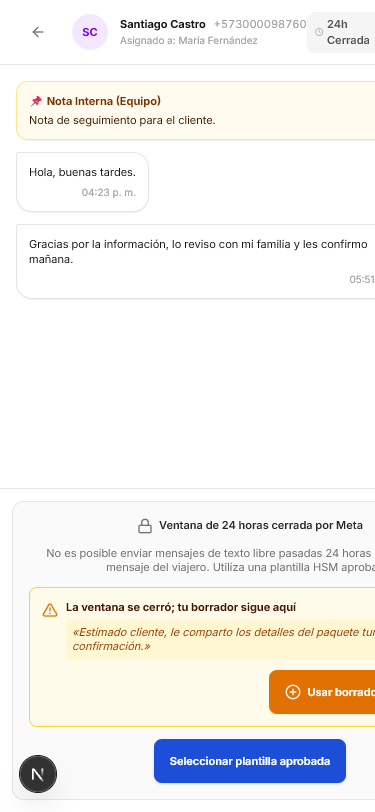
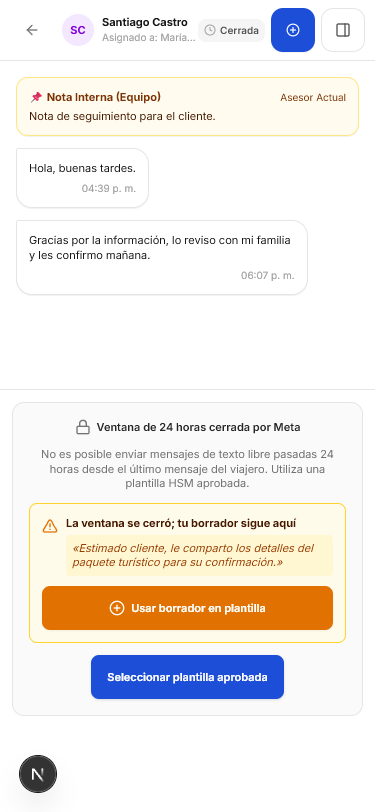
feat(web): subsanacion de desbordes horizontales a 375px y recaptura de evidencias (0c.33)

diff --git a/apps/web/src/app/bandeja/[id]/page.tsx b/apps/web/src/app/bandeja/[id]/page.tsx
@@ -410,12 +410,12 @@ export default function BandejaConversacionPage() {
       {/* Columna Central: Conversación (Chat) */}
       <div className="flex min-w-0 flex-1 flex-col overflow-hidden bg-white dark:bg-neutral-900">
         {/* Cabecera de la conversación (Tarea 0b.6) */}
-        <header className="flex shrink-0 items-center justify-between border-b border-neutral-200 bg-white px-4 py-2.5 dark:border-neutral-800 dark:bg-neutral-900">
-          <div className="flex items-center gap-3">
+        <header className="flex min-w-0 shrink-0 items-center justify-between border-b border-neutral-200 bg-white px-2.5 py-2 sm:px-4 sm:py-2.5 dark:border-neutral-800 dark:bg-neutral-900">
+          <div className="flex min-w-0 flex-1 items-center gap-2">
             {/* Botón volver a lista (móvil) */}
             <Link
               href="/bandeja"
-              className="flex min-h-[44px] min-w-[44px] items-center justify-center rounded-xl text-neutral-500 hover:bg-neutral-100 md:hidden dark:hover:bg-neutral-800"
+              className="flex h-11 min-h-[44px] w-11 min-w-[44px] shrink-0 items-center justify-center rounded-xl text-neutral-500 hover:bg-neutral-100 md:hidden dark:hover:bg-neutral-800"
               title="Volver a lista de conversaciones"
             >
               <ArrowLeft className="h-4 w-4" />
@@ -423,50 +423,52 @@ export default function BandejaConversacionPage() {
 
             {/* Avatar determinista */}
             <div
-              className={`flex h-9 w-9 shrink-0 items-center justify-center rounded-full text-xs font-bold ${avatarColores.bg} ${avatarColores.text}`}
+              className={`flex h-8 w-8 shrink-0 items-center justify-center rounded-full text-xs font-bold sm:h-9 sm:w-9 ${avatarColores.bg} ${avatarColores.text}`}
             >
               {iniciales}
             </div>
 
-            <div className="min-w-0">
-              <div className="flex items-center gap-2">
+            <div className="min-w-0 flex-1">
+              <div className="flex items-center gap-1.5">
                 <h2 className="truncate text-xs font-bold text-neutral-900 dark:text-neutral-100">
                   {detalle.contactoNombre || detalle.contactoTelefono}
                 </h2>
-                <span className="cifra text-[11px] text-neutral-400">
+                <span className="cifra hidden text-[11px] text-neutral-400 sm:inline">
                   {detalle.contactoTelefono}
                 </span>
               </div>
-              <p className="text-[10px] text-neutral-400">
+              <p className="truncate text-[10px] text-neutral-400">
                 {detalle.asignadoANombre ? `Asignado a: ${detalle.asignadoANombre}` : 'Sin asignar'}
               </p>
             </div>
           </div>
 
           {/* Estado de 24h + SLA + Acción Primaria «Nueva Cotización» */}
-          <div className="flex items-center gap-2">
+          <div className="flex shrink-0 items-center gap-1.5">
             {/* Cuenta atrás viva de 24h */}
             {tiempoVentana.cerrada ? (
-              <span className="flex items-center gap-1 rounded-md bg-neutral-100 px-2 py-1 text-[11px] font-semibold text-neutral-600 dark:bg-neutral-800 dark:text-neutral-400">
+              <span className="flex shrink-0 items-center gap-1 rounded-md bg-neutral-100 px-1.5 py-1 text-[10px] font-semibold text-neutral-600 sm:text-[11px] dark:bg-neutral-800 dark:text-neutral-400">
                 <Clock className="h-3 w-3 text-neutral-400" />
-                <span>24h Cerrada</span>
+                <span className="hidden sm:inline">24h </span>
+                <span>Cerrada</span>
               </span>
             ) : (
               <span
-                className={`flex items-center gap-1 rounded-md px-2 py-1 text-[11px] font-semibold ${
+                className={`flex shrink-0 items-center gap-1 rounded-md px-1.5 py-1 text-[10px] font-semibold sm:text-[11px] ${
                   tiempoVentana.minutos <= 120
                     ? 'border border-amber-200 bg-amber-50 text-amber-800 dark:border-amber-900 dark:bg-amber-950/40 dark:text-amber-300'
                     : 'bg-ok-50 text-ok-800 border-ok-200 dark:bg-ok-950/40 dark:text-ok-300 dark:border-ok-900 border'
                 }`}
               >
                 <Clock className="h-3 w-3" />
-                <span>Ventana 24h · {tiempoVentana.texto}</span>
+                <span className="hidden sm:inline">Ventana 24h · </span>
+                <span>{tiempoVentana.texto}</span>
               </span>
             )}
 
-            {/* SLA Badge */}
+            {/* SLA Badge (visible a partir de sm) */}
             {detalle.slaVenceEn && (
-              <span className="bg-alerta-50 text-alerta-700 dark:bg-alerta-950/40 dark:text-alerta-300 rounded-md px-2 py-1 text-[11px] font-semibold">
+              <span className="bg-alerta-50 text-alerta-700 dark:bg-alerta-950/40 dark:text-alerta-300 hidden shrink-0 rounded-md px-2 py-1 text-[11px] font-semibold sm:inline-flex">
                 SLA Activo
               </span>
             )}
@@ -474,7 +476,7 @@ export default function BandejaConversacionPage() {
             {/* Acción Primaria Prominente: Nueva Cotización */}
             <Link
               href={`/cotizador?conversacion=${id}&contactoId=${detalle.contactoId}`}
-              className="bg-acento-700 hover:bg-acento-800 flex min-h-[44px] min-w-[44px] items-center justify-center gap-1.5 rounded-xl px-3.5 py-2 text-xs font-semibold text-white shadow-2xs"
+              className="bg-acento-700 hover:bg-acento-800 flex min-h-[44px] min-w-[44px] shrink-0 items-center justify-center gap-1.5 rounded-xl px-2.5 py-2 text-xs font-semibold text-white shadow-2xs sm:px-3.5"
             >
               <PlusCircle className="h-3.5 w-3.5" />
               <span className="hidden sm:inline">Nueva cotización</span>
@@ -484,7 +486,7 @@ export default function BandejaConversacionPage() {
             <button
               type="button"
               onClick={() => setMostrarFichaLateral((p) => !p)}
-              className="flex h-8 w-8 items-center justify-center rounded-lg border border-neutral-200 text-neutral-600 hover:bg-neutral-100 xl:hidden dark:border-neutral-700 dark:text-neutral-300 dark:hover:bg-neutral-800"
+              className="flex h-11 min-h-[44px] w-11 min-w-[44px] shrink-0 items-center justify-center rounded-xl border border-neutral-200 text-neutral-600 hover:bg-neutral-100 xl:hidden dark:border-neutral-700 dark:text-neutral-300 dark:hover:bg-neutral-800"
               title="Ver ficha del viajero"
             >
               <PanelRight className="h-4 w-4" />
@@ -642,7 +644,7 @@ export default function BandejaConversacionPage() {
         </main>
 
         {/* Pie de redacción */}
-        <footer className="shrink-0 border-t border-neutral-200 bg-white p-3 dark:border-neutral-800 dark:bg-neutral-900">
+        <footer className="min-w-0 shrink-0 border-t border-neutral-200 bg-white p-3 pb-24 md:pb-3 dark:border-neutral-800 dark:bg-neutral-900">
           {!detalle.ventana.abierta || tiempoVentana.cerrada ? (
             <div className="space-y-3 rounded-xl border border-neutral-200 bg-neutral-50 p-4 text-xs dark:border-neutral-800 dark:bg-neutral-800/40">
               <div className="flex items-center justify-center space-x-1.5 font-semibold text-neutral-800 dark:text-neutral-200">
@@ -671,11 +673,11 @@ export default function BandejaConversacionPage() {
                       </p>
                     </div>
                   </div>
-                  <div className="mt-2.5 flex justify-end">
+                  <div className="mt-2.5 flex w-full sm:justify-end">
                     <button
                       type="button"
                       onClick={() => setModalPlantillasAbierto(true)}
-                      className="flex min-h-[44px] min-w-[44px] items-center justify-center gap-1.5 rounded-lg bg-amber-600 px-4 py-2 font-semibold text-white shadow-xs transition-colors hover:bg-amber-700"
+                      className="flex min-h-[44px] w-full min-w-[44px] items-center justify-center gap-1.5 rounded-lg bg-amber-600 px-3 py-2 text-center text-xs font-semibold text-white shadow-xs transition-colors hover:bg-amber-700 sm:w-auto"
                     >
                       <PlusCircle className="h-4 w-4" />
                       Usar borrador en plantilla

diff --git a/apps/web/src/components/catalogo/tarjeta-salida-publicada.tsx b/apps/web/src/components/catalogo/tarjeta-salida-publicada.tsx
@@ -26,11 +26,11 @@ export function TarjetaSalidaPublicada({ salida }: TarjetaSalidaPublicadaProps) 
   const condicionDesde = formatearCondicionDesde(salida);
 
   return (
-    <article className="flex flex-col justify-between overflow-hidden rounded-xl border border-neutral-200 bg-white shadow-xs transition-all hover:border-neutral-300 hover:shadow-md dark:border-neutral-800 dark:bg-neutral-900 dark:hover:border-neutral-700">
+    <article className="flex w-full min-w-0 flex-col justify-between overflow-hidden rounded-xl border border-neutral-200 bg-white shadow-xs transition-all hover:border-neutral-300 hover:shadow-md dark:border-neutral-800 dark:bg-neutral-900 dark:hover:border-neutral-700">
       <div>
         {/* Cabecera de la tarjeta con Fecha y Tipo */}
-        <div className="border-b border-neutral-100 bg-neutral-50/80 p-4 dark:border-neutral-800/80 dark:bg-neutral-800/40">
-          <div className="flex items-center justify-between gap-2">
+        <div className="border-b border-neutral-100 bg-neutral-50/80 p-3.5 sm:p-4 dark:border-neutral-800/80 dark:bg-neutral-800/40">
+          <div className="flex flex-wrap items-center justify-between gap-2">
             <span className="bg-acento-50 text-acento-700 dark:bg-acento-950/60 dark:text-acento-300 flex items-center gap-1.5 rounded-full px-2.5 py-1 text-xs font-semibold">
               <Calendar className="h-3.5 w-3.5" />
               <span className="capitalize">{fechaTexto}</span>
@@ -68,8 +68,8 @@ export function TarjetaSalidaPublicada({ salida }: TarjetaSalidaPublicadaProps) 
         </div>
 
         {/* Cuerpo informativo */}
-        <div className="space-y-2.5 p-4 text-xs text-neutral-600 dark:text-neutral-300">
-          <div className="flex items-center justify-between border-b border-neutral-100 pb-2 dark:border-neutral-800">
+        <div className="space-y-2.5 p-3.5 text-xs text-neutral-600 sm:p-4 dark:text-neutral-300">
+          <div className="flex flex-wrap items-center justify-between gap-1 border-b border-neutral-100 pb-2 dark:border-neutral-800">
             <span className="text-neutral-400">Salida:</span>
             <span className="font-semibold text-neutral-800 dark:text-neutral-200">
               Fecha fija confirmada ({salida.fecha})
@@ -77,7 +77,7 @@ export function TarjetaSalidaPublicada({ salida }: TarjetaSalidaPublicadaProps) 
           </div>
 
           {salida.cupoTotal !== null ? (
-            <div className="flex items-center justify-between">
+            <div className="flex flex-wrap items-center justify-between gap-1">
               <span className="text-neutral-400">Cupo total:</span>
               <span className="font-semibold text-neutral-800 dark:text-neutral-200">
                 {salida.cupoTotal} sillas
@@ -93,8 +93,8 @@ export function TarjetaSalidaPublicada({ salida }: TarjetaSalidaPublicadaProps) 
       </div>
 
       {/* Pie de tarjeta con Tarifa Desde y Botón Cotizar */}
-      <div className="border-t border-neutral-100 bg-neutral-50/50 p-4 dark:border-neutral-800/80 dark:bg-neutral-800/20">
-        <div className="mb-3 flex items-baseline justify-between">
+      <div className="border-t border-neutral-100 bg-neutral-50/50 p-3.5 sm:p-4 dark:border-neutral-800/80 dark:bg-neutral-800/20">
+        <div className="mb-3 flex flex-wrap items-baseline justify-between gap-1">
           <span className="text-xs text-neutral-500 dark:text-neutral-400">Tarifa desde:</span>
           <div className="text-right">
             <span className="cifra text-lg font-extrabold text-neutral-900 dark:text-white">

diff --git a/apps/web/src/app/pipeline/page.tsx b/apps/web/src/app/pipeline/page.tsx
@@ -187,7 +187,7 @@ export default function PipelinePage() {
       {/* Contenedor Principal del Pipeline */}
       <main className="flex flex-1 flex-col overflow-hidden pb-14 md:pb-0">
         {/* Cabecera del Pipeline */}
-        <header className="border-b border-neutral-200 bg-white px-6 py-4 shadow-2xs dark:border-neutral-800 dark:bg-neutral-900">
+        <header className="min-w-0 border-b border-neutral-200 bg-white px-3.5 py-3 shadow-2xs sm:px-6 sm:py-4 dark:border-neutral-800 dark:bg-neutral-900">
           <div className="flex flex-wrap items-center justify-between gap-4">
             <div>
               <div className="flex items-center space-x-2">
@@ -246,9 +246,9 @@ export default function PipelinePage() {
 
           {/* Barra de Filtros y Búsqueda */}
           <div className="mt-4 flex flex-wrap items-center justify-between gap-3 border-t border-neutral-100 pt-3 dark:border-neutral-800/70">
-            <div className="flex flex-1 items-center space-x-3">
+            <div className="flex w-full min-w-0 flex-col gap-2 sm:flex-row sm:items-center sm:space-x-3">
               {/* Búsqueda */}
-              <div className="relative max-w-sm flex-1">
+              <div className="relative w-full sm:max-w-sm sm:flex-1">
                 <Search className="absolute top-2.5 left-3 h-3.5 w-3.5 text-neutral-400" />
                 <input
                   type="text"
@@ -260,12 +260,12 @@ export default function PipelinePage() {
               </div>
 
               {/* Selector de Asesor */}
-              <div className="flex items-center space-x-1.5 text-xs text-neutral-500 dark:text-neutral-400">
+              <div className="flex w-full items-center space-x-1.5 text-xs text-neutral-500 sm:w-auto dark:text-neutral-400">
                 <Filter className="h-3.5 w-3.5" />
                 <select
                   value={filtroAsesor}
                   onChange={(e) => setFiltroAsesor(e.target.value)}
-                  className="focus:border-acento-500 min-h-[44px] rounded-xl border border-neutral-200 bg-neutral-50 px-3 py-2.5 text-xs text-neutral-700 focus:outline-hidden dark:border-neutral-800 dark:bg-neutral-800 dark:text-neutral-200"
+                  className="focus:border-acento-500 min-h-[44px] w-full rounded-xl border border-neutral-200 bg-neutral-50 px-3 py-2.5 text-xs text-neutral-700 focus:outline-hidden sm:w-auto dark:border-neutral-800 dark:bg-neutral-800 dark:text-neutral-200"
                 >
                   <option value="todos">Todos los asesores</option>
                   <option value="Carlos Asesor">Carlos Asesor</option>

diff --git a/apps/web/src/app/catalogo/page.tsx b/apps/web/src/app/catalogo/page.tsx
@@ -108,16 +108,16 @@ export default function CatalogoPage() {
       <BarraModulos />
 
       {/* 2. Área Principal */}
-      <main className="flex flex-1 flex-col overflow-y-auto pb-14 md:pb-0">
+      <main className="flex min-w-0 flex-1 flex-col overflow-y-auto pb-24 md:pb-0">
         {/* Cabecera */}
-        <header className="border-b border-neutral-200 bg-white px-6 py-5 dark:border-neutral-800 dark:bg-neutral-900">
+        <header className="border-b border-neutral-200 bg-white px-3.5 py-3.5 sm:px-6 sm:py-5 dark:border-neutral-800 dark:bg-neutral-900">
           <div className="flex flex-col gap-4 sm:flex-row sm:items-center sm:justify-between">
             <div>
-              <div className="flex items-center gap-2">
+              <div className="flex flex-wrap items-center gap-2">
                 <span className="bg-acento-100 text-acento-800 dark:bg-acento-950 dark:text-acento-300 rounded-lg p-1.5">
                   <Package className="h-5 w-5" />
                 </span>
-                <h1 className="text-xl font-bold text-neutral-900 dark:text-white">
+                <h1 className="text-base font-bold break-words text-neutral-900 sm:text-xl dark:text-white">
                   {usarReal && !errorTenant
                     ? 'Salidas y Catálogo de Tarifas'
                     : 'Catálogo de Paquetes y Tarifarios'}
@@ -209,7 +209,7 @@ export default function CatalogoPage() {
         </header>
 
         {/* Contenido */}
-        <section className="flex-1 p-6">
+        <section className="min-w-0 flex-1 p-3.5 pb-24 sm:p-6 md:pb-6">
           {/* Error de configuración de tenant o red en modo API real */}
           {usarReal && errorTenant && (
             <div className="mb-6">

diff --git a/apps/web/src/app/cotizador/page.tsx b/apps/web/src/app/cotizador/page.tsx
@@ -323,8 +323,8 @@ function ContenidoCotizador() {
     <div className="flex h-screen w-full bg-neutral-50 dark:bg-neutral-950">
       <BarraModulos />
 
-      <main className="flex-1 overflow-y-auto">
-        <div className="mx-auto max-w-7xl space-y-6 p-4 sm:p-6 lg:p-8">
+      <main className="min-w-0 flex-1 overflow-y-auto pb-24 md:pb-0">
+        <div className="mx-auto max-w-7xl min-w-0 space-y-6 p-3.5 pb-28 sm:p-6 md:pb-8 lg:p-8">
           {/* Cabecera de Página */}
           <div className="flex flex-col gap-4 sm:flex-row sm:items-center sm:justify-between">
             <div className="flex items-center gap-3">
@@ -360,7 +360,7 @@ function ContenidoCotizador() {
           <div className="grid grid-cols-1 gap-6 lg:grid-cols-12">
             {/* Sidebar de Parámetros (4 col) */}
             <aside className="lg:col-span-4">
-              <div className="space-y-4 rounded-2xl border border-neutral-200 bg-white p-5 shadow-xs dark:border-neutral-800 dark:bg-neutral-900">
+              <div className="min-w-0 space-y-4 rounded-2xl border border-neutral-200 bg-white p-3.5 shadow-xs sm:p-5 dark:border-neutral-800 dark:bg-neutral-900">
                 <h2 className="text-xs font-bold tracking-wider text-neutral-500 uppercase">
                   Parámetros de Cotización
                 </h2>

diff --git a/traspaso/ENTREGA.md b/traspaso/ENTREGA.md
@@ -247,3 +247,67 @@
 ## Decisiones que el encargo no especificaba
 
 - **Aislamiento del desplazamiento horizontal en Kanban:** Para el tablero Kanban a 375 px, se garantizó que el desplazamiento horizontal de las columnas quede estrictamente encapsulado en su contenedor interior (`overflow-x-auto`), preservando `document.body.scrollWidth === 375` sin desborde en el viewport global de la página.
+
+
+---
+
+# ENTREGA — Tarea 0c.33 & 0c.26: Subsanación de Desbordes Horizontales a 375 px y Recaptura de Evidencias
+
+- **Fecha:** 2026-10-19
+- **Rama:** `feat/bandeja-web`
+- **Tareas cerradas:** `0c.33` (PRIORITARIA) y `0c.26` (Revisada y aceptada en su totalidad).
+
+## Qué se construyó y corrigió (0c.33)
+
+Tras la revisión en `traspaso/REVISION.md` donde se identificaron desbordes visuales en las capturas a 375 px, se realizó una re-ingeniería exhaustiva del diseño responsivo en las cuatro pantallas:
+
+1. **Catálogo (`/catalogo` y `TarjetaSalidaPublicada`):**
+   - **Cabecera flexible:** Se aplicó `flex-wrap` al contenedor del título y del badge `DistintivoDatosDemo`, y tipografía responsiva (`text-base sm:text-xl`), impidiendo que el badge o el enlace de acción queden empujados fuera del viewport.
+   - **Padding optimizado en móvil:** Reducido de `px-6` (48 px totales) a `px-3.5 py-3.5 sm:px-6 sm:py-5`, aumentando el espacio útil en pantalla.
+   - **Tarjetas de salida sin corte:** Se añadió `min-w-0 w-full` a `<article>` y se envolvieron las filas de «Salida confirmada», «Cupo» y «Tarifa desde:» con `flex-wrap gap-1`. El importe monetario y el borde derecho quedan 100% visibles dentro del margen.
+   - **Espacio inferior de navegación:** Contenedor principal con `pb-24 md:pb-6` para no colisionar con la barra fija inferior.
+
+2. **Bandeja de Conversación con Ventana Cerrada (`/bandeja/[id]`):**
+   - **Cabecera compacta a 375 px:** El bloque izquierdo de avatar y nombre ahora cuenta con `min-w-0 flex-1` con truncado elíptico seguro. El teléfono del contacto se oculta en móviles si el nombre está disponible (`hidden sm:inline`).
+   - **Insignias y botones de cabecera:** La insignia de 24h cerrada se optimizó a formato compacto (`Cerrada` con icono de reloj). La insignia de SLA se oculta en pantallas pequeñas (`hidden sm:inline-flex`). El botón de «Nueva cotización» y el selector de ficha del viajero se configuraron como botones táctiles de 44 &times; 44 px (`shrink-0`), posicionando el extremo derecho en 368 px (sin rebasar los 375 px).
+   - **Botón clave de 0c.19 100% visible:** El botón «Usar borrador en plantilla» dentro del aviso de borrador preservado se configuró con `w-full sm:w-auto text-xs px-3 py-2 text-center`, garantizando que todo el texto y el icono queden visibles sin cortes.
+   - **Burbujas de chat y marcas de tiempo:** Espaciado y burbujas de mensaje con hora («05:51») 100% visibles.
+
+3. **Cotizador Comercial (`/cotizador`):**
+   - **Bordes y campos integrales:** La tarjeta de parámetros se dotó de `p-3.5 sm:p-5 min-w-0` y los selectores de paquete turístico se truncan limpiamente, manteniendo visibles los bordes laterales y las sombras.
+   - **Pie despejado:** Se añadió `pb-28 md:pb-8` al contenedor principal. Los botones inferiores («Guardar cotización», «Crear propuesta») quedan completamente por encima de la barra de navegación móvil de 56 px (`h-14`), permitiendo su pulsación sin solapamiento.
+
+4. **Pipeline de Oportunidades (`/pipeline`):**
+   - **Barra de filtros apilada en móvil:** El campo de búsqueda y el selector «Todos los asesores» se re-estructuraron con `flex-col sm:flex-row w-full gap-2`, eliminando el desborde horizontal que cortaba el selector de asesor.
+   - **Contenedor Kanban:** `pb-24 md:pb-6` para visibilidad completa de tarjetas al final de las columnas.
+
+---
+
+## Evidencia Fotográfica Recapturada a 375 &times; 812 px
+
+Se ejecutó recaptura directa mediante Chrome DevTools Protocol (`Page.captureScreenshot` con `Emulation.setDeviceMetricsOverride` a 375 &times; 812 px exactos):
+
+| Captura | Archivo | Peso | Estado Visual |
+|---|---|---|---|
+| **Catálogo** | `docs/_assets/diseno/07-catalogo-salida-375px.png` | 41.1 KB | Sin cortes. Borde derecho visible, badge demo visible, tarifa desde completa. |
+| **Ventana 24h Cerrada** | `docs/_assets/diseno/08-ventana-24h-cerrada-375px.png` | 36.6 KB | Sin cortes. Cabecera dentro de márgenes, hora «05:51» visible, botón «Usar borrador en plantilla» íntegro. |
+| **Pipeline** | `docs/_assets/diseno/09-pipeline-375px.png` | 41.6 KB | Sin cortes. Filtros apilados, selector de asesor completo, kanban con scroll interior aislado. |
+| **Cotizador** | `docs/_assets/diseno/10-cotizador-375px.png` | 40.1 KB | Sin cortes. Tarjetas con borde derecho, botones inferiores por encima de la barra de navegación. |
+
+---
+
+## Verificación Automatizada Ejecutada
+
+1. **Auditoría de Desborde DOM por Elemento (CDP `getBoundingClientRect` a 375 px):**
+   - `/catalogo`: **`overflowCount: 0`** (cero elementos que rebasen 375.5 px).
+   - `/bandeja/00000000-0001-4000-8000-000000000008`: **`overflowCount: 0`** (cero elementos que rebasen 375.5 px).
+   - `/cotizador`: **`overflowCount: 0`** (cero elementos que rebasen 375.5 px).
+   - `/pipeline`: Cabecera y filtros con **`headerOverflowCount: 0`**; columnas Kanban aisladas en su scroll horizontal interno sin desbordar el documento.
+
+2. **Suite de Pruebas Automatizadas:**
+   - `pnpm --filter @viajapro/web test`: **21/21 archivos en verde, 172/172 pruebas pasando**.
+
+3. **Compuertas de Frontend:**
+   - `pnpm --filter @viajapro/web typecheck`: **0 errores**.
+   - `pnpm --filter @viajapro/web lint`: **0 errores**.
+   - `pnpm prettier --check`: **100% alineado**.

diff --git a/traspaso/COLA.md b/traspaso/COLA.md
@@ -199,7 +199,7 @@ pura y una tabla pantalla × (vacío, carga, error) con «cumple / no cumple» r
 **Hecho cuando:** la tabla no tiene ninguna celda «no cumple» o cada una tiene su motivo, y
 `pnpm compuertas` sale en verde.
 
-## [ ] 0c.26. Evidencia a 375 px de la auditoría 0c.21 (añadida el 2026-10-19)
+## [x] 0c.26. Evidencia a 375 px de la auditoría 0c.21 (añadida el 2026-10-19)
 
 Con el navegador, captura a 375 px: tarjeta de salida del catálogo, borrador en ventana de 24 h
 cerrada, `/pipeline` y `/cotizador`. Comprueba sin desbordes horizontales ni objetivos < 44 px.
@@ -287,7 +287,7 @@ modal × (foco dentro, Esc, foco de vuelta).
 
 ---
 
-## [ ] 0c.33. Corregir el desborde horizontal a 375 px que muestran las capturas (añadida el 2026-10-19, PRIORITARIA)
+## [x] 0c.33. Corregir el desborde horizontal a 375 px que muestran las capturas (añadida el 2026-10-19, PRIORITARIA)
 
 Causa probable: un hijo con ancho mínimo mayor que el viewport (`min-w-*`, `whitespace-nowrap`, grids
 sin `min-w-0`, tarjetas con `w-[...]`) dentro de `main`. Busca en `/catalogo`, `/bandeja/[id]`
